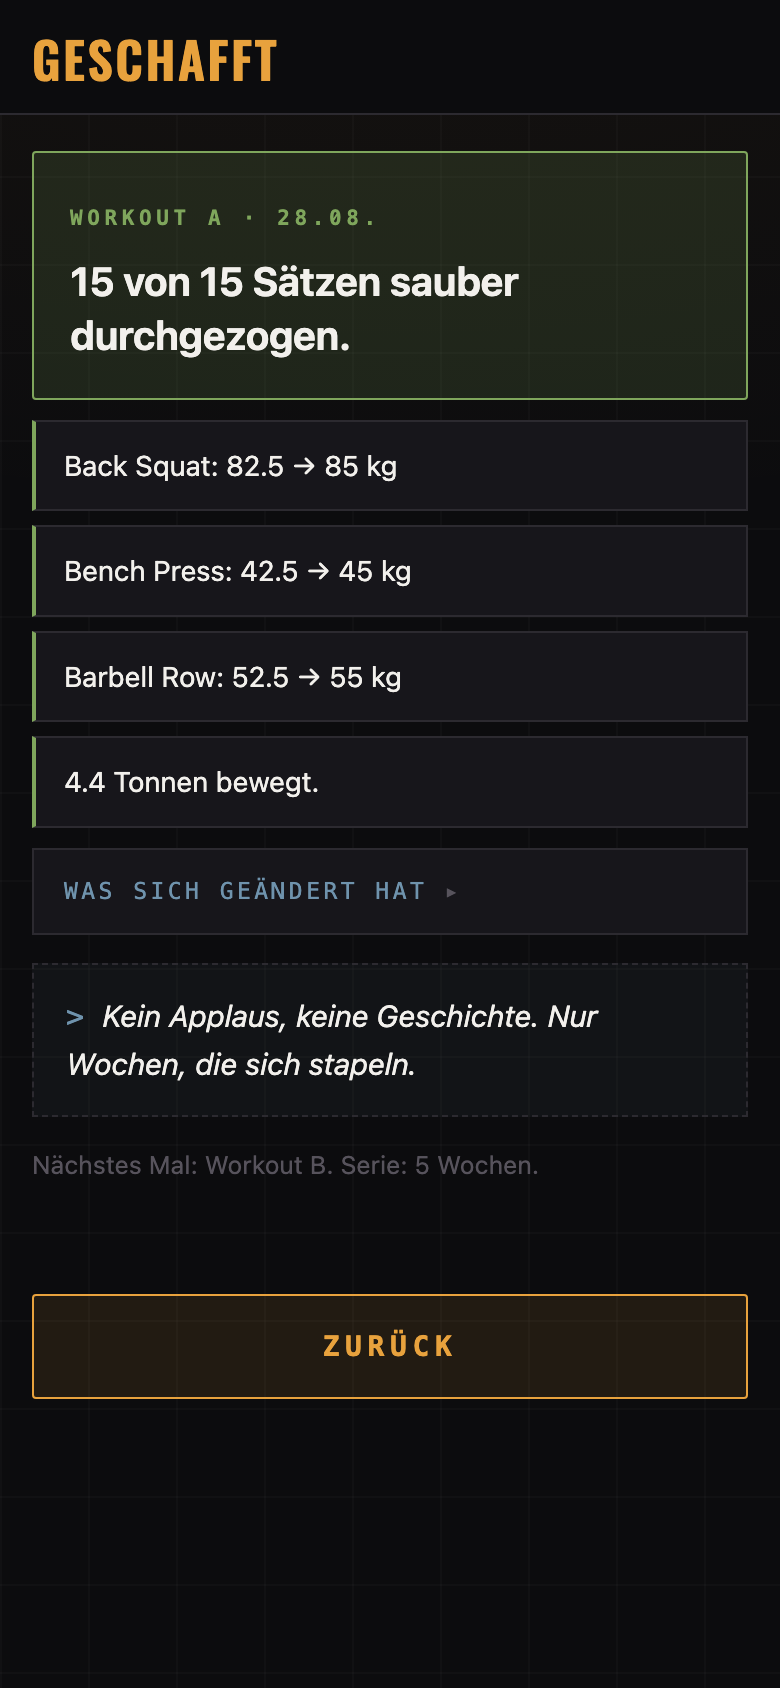
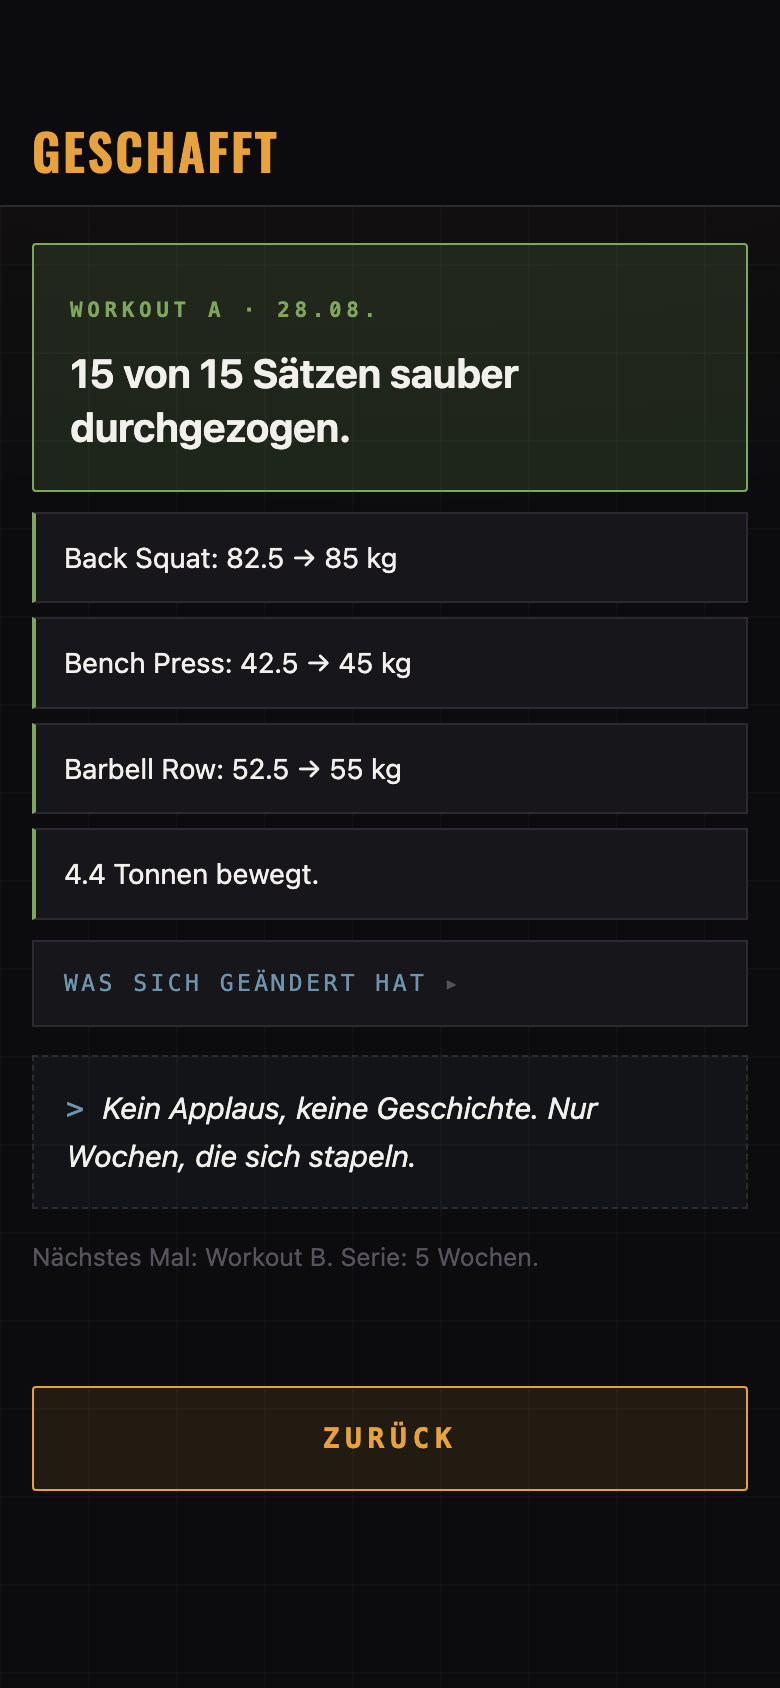
README: Flair und Featureliste zurueck, dazu ein Mac-Screenshot
Die radikale Kuerzung war zu trocken. Zurueck: die drei gruppierten
Funktionstabellen (Kraft / Rad und Kondition / App), ein Meilenstein-Zitat
fuer Persoenlichkeit, ein kompakter Text-Datenfluss statt Mermaid, und
zwei der Kernentscheidungen (state.json als Projektion, Mindestens vs.
Maximum) in Kurzform.

Neu: ein echter Desktop-Screenshot der Tour-Ansicht. shot.html hatte den
Rahmen fest auf Handygroesse gebaut (390x844) — ueber breite/hoehe-Parameter
jetzt auch als breite Fassung aufnehmbar. Die Formkurve im Screenshot
brauchte dafuer eine formVerlauf-Zeitreihe in den Testdaten, die vorher
fehlte (nur die aktuelle Ansage war geseedet, keine Kurve).

diff --git a/tools/shot.html b/tools/shot.html
@@ -3,7 +3,7 @@
 <title>laedt</title>
 <style>
   html,body{margin:0;padding:0;background:#000;overflow:hidden}
-  iframe{display:block;width:390px;height:844px;border:0}
+  iframe{display:block;border:0}
 </style>
 <body>
 <script>
@@ -12,11 +12,15 @@
    Chrome im Kopflos-Modus echte Bildschirme statt Mockups aufnimmt.
    Nur ein Werkzeug — die App selbst kennt diese Datei nicht.
 
-   Aufruf:  tools/shot.html?szene=home&thema=dunkel                        */
+   Aufruf:  tools/shot.html?szene=home&thema=dunkel
+            tools/shot.html?szene=verlauf&thema=dunkel&breite=1440&hoehe=1000 */
 
 const p = new URLSearchParams(location.search);
 const szene = p.get('szene') || 'home';
 const thema = p.get('thema') || 'dunkel';
+const breite = Number(p.get('breite')) || 390;
+const hoehe = Number(p.get('hoehe')) || 844;
+document.querySelector('style').textContent += `iframe{width:${breite}px;height:${hoehe}px}`;
 
 const config = {
   version: 1, bar: 20, rounding: 2.5, motto: 'Lift Heavy Shit',
@@ -90,10 +94,20 @@ const state = {
   history: logs.filter(l => (l.type||'strength')==='strength').map(l => ({ date:l.date, workout:l.workout, type:'strength' }))
 };
 
+// Fitness/Ermuedung als Zeitreihe fuer den Verlauf-Chart — sonst zeigt die
+// Tour dort einen Leerzustand, weil das einzelne "form"-Objekt oben nur die
+// aktuelle Ansage speist, keine Kurve.
+const formVerlauf = Array.from({ length: 30 }, (_, i) => {
+  const t = i / 29;
+  const ctl = Math.round((38 + t * 14) * 10) / 10;
+  const atl = Math.round((34 + t * 13 + Math.sin(i * 0.9) * 6) * 10) / 10;
+  return { date: tage(29 - i), ctl, atl, form: Math.round((ctl - atl) * 10) / 10 };
+});
+
 localStorage.clear();
 localStorage.setItem('setlist.token', 'demo');
 localStorage.setItem('setlist.cache', JSON.stringify({
-  config, state, fahrten,
+  config, state, fahrten, formVerlauf,
   form: { form: 5, stufe: 'frisch', fitness: 52, ermuedung: 47,
           text: 'Ausgeruht. Wenn ein Tag für einen Versuch am oberen Ende taugt, dann dieser.' },
   eftp: 243

diff --git a/README.md b/README.md
@@ -6,6 +6,7 @@
   <a href="https://cyphomat.github.io/setlist/"><img alt="App öffnen" src="https://img.shields.io/badge/App-öffnen-e8a23d?style=for-the-badge&labelColor=17161b"></a>
   <img alt="Tests" src="https://img.shields.io/badge/Tests-375%20grün-7fa65c?style=for-the-badge&labelColor=17161b">
   <img alt="Build" src="https://img.shields.io/badge/Build-keiner-6f93ad?style=for-the-badge&labelColor=17161b">
+  <img alt="Abhängigkeiten" src="https://img.shields.io/badge/Abhängigkeiten-0-a7a3ab?style=for-the-badge&labelColor=17161b">
 </p>
 
 <p align="center">
@@ -24,26 +25,42 @@
 <td width="33%"><img src="assets/screens/geschafft-dunkel.png" alt="Nach der Einheit"></td>
 </tr>
 <tr>
-<td align="center"><sub>Die Ansage</sub></td>
-<td align="center"><sub>Im Studio</sub></td>
-<td align="center"><sub>Danach</sub></td>
+<td align="center"><b>Die Ansage</b><br><sub>Ton aus Pause, Form und Rad</sub></td>
+<td align="center"><b>Im Studio</b><br><sub>Scheiben, Kadenz, Sätze über dem Ziel</sub></td>
+<td align="center"><b>Danach</b><br><sub>Erst der Erfolg, dann der Bericht</sub></td>
 </tr>
 </table>
 
-<sub>Echte Bildschirme mit Beispieldaten, aufgenommen über <code>tools/shot.html</code>.</sub>
+**Auf dem Mac wird daraus eine Übersicht** — Kalender, Wochenlast, Bestwerte und Verlaufskurven nebeneinander statt untereinander:
+
+<img src="assets/screens/tour-desktop.png" alt="Tour auf dem Mac, breite Ansicht">
+
+<sub>Echte Bildschirme mit Beispieldaten, aufgenommen über <code>tools/shot.html</code>. Keine Mockups.</sub>
 
 ---
 
-## Was sie tut
+## Was sie dir sagt
 
-Jeden Tag eine Ansage, aus Daten statt aus dem Bauch: Pause, offene Fehlversuche, Form vom Rad, Abstand zu den alten Bestwerten.
+Der Unterschied zu einem Logbuch: sie hat eine Meinung zum heutigen Tag — aus Daten, nicht aus dem Bauch.
 
-- **Kraft** läuft nach 5×5: fünf Sätze schaffen → Gewicht steigt, dreimal gerissen → Deload auf 90 %. Arbeitsgewichte werden nie von Hand gesetzt, nur über einen protokollierten Log.
-- **Rad** kommt automatisch — Zwift → Strava → intervals.icu. Setlist zeigt es nur als Hinweis und schreibt jede Krafteinheit dorthin zurück, damit Fitness und Ermüdung in einer Kurve liegen.
-- **Interferenz-Warnung**, wenn eine harte Fahrt weniger als vier Stunden her ist — die letzten Sätze werden zäh, das Maximalkraftniveau nicht.
-- **Jam**: ein Zufalls-Workout, wenn mal keine Lust auf den Plan besteht. Lasten aus dem aktuellen Stand, Skalierung für alles, was du (noch) nicht kannst.
-- **Meilensteine und Minierfolge**: „Gestern vor 5 Jahren 140 kg" neben „heute stehst du bei 65". Nach jeder Einheit steht zuerst das Geschaffte, nicht der Bericht.
-- **Die Stimme** mischt deine eigenen Zeilen aus `stimme.json` mit den mitgelieferten, etwa halbe halbe.
+- **Die Ansage** liest Trainingspause, offene Fehlversuche, laufende Serie und Form vom Rad und entscheidet zwischen `TECHNIK`, `SOLIDE`, `HART` und `SCHWER`.
+- **Interferenz-Warnung**, wenn eine harte Fahrt weniger als vier Stunden her ist — die letzten Sätze werden zäh, das Maximalkraftniveau bleibt unberührt.
+- **Meilensteine** kennen die alten Bestleistungen samt Datum:
+
+  > **Aus deiner Geschichte** — Gestern vor 5 Jahren: 140 kg Back Squat. Heute stehst du bei 65 kg — nicht weil du weniger kannst, sondern weil du wieder anfängst.
+
+- **Minierfolge** stehen nach jeder Einheit ganz oben. Nicht der Bericht, sondern das Geschaffte.
+- **Die Stimme** mischt eigene Zeilen aus `stimme.json` mit 52 mitgelieferten, etwa halbe halbe.
+
+## Wie es zusammenhängt
+
+```
+Zwift ──▶ Strava ──▶ intervals.icu ◀──▶ Setlist ◀──▶ setlist-data (privat)
+                            │                              │
+                       Fahrten, Form                  Kraft-Progression
+```
+
+Setlist besitzt die **Kraft**-Progression — zwei Systeme, die dasselbe Arbeitsgewicht berechnen, laufen unweigerlich auseinander. Das **Rad** läuft andersherum: es kommt automatisch über Zwift → Strava → intervals.icu, Setlist zeigt es nur als Hinweis und schreibt im Gegenzug jede Krafteinheit zurück, damit Fitness und Ermüdung in einer Kurve liegen statt in zwei getrennten Welten.
 
 ## Zweimal und zweimal
 
@@ -60,13 +77,47 @@ Back Squat ist in beiden Workouts dabei und steigt darum doppelt so schnell.
 
 ## Funktionen
 
-**Kraft** — Plattenrechner, Aufwärmsätze aus dem Arbeitsgewicht, Gewicht im Satz nachjustierbar, Pausenuhr mit Verlängerung nach Fehlversuch, Bestwerte getrennt in `Maximum` (nur Max-Out) und `Mindestens` (Arbeitssätze, systematisch zu niedrig).
+### Kraft
 
-**Rad und Kondition** — Wochenlast Kraft+Rad gestapelt, Fitness gegen Ermüdung, Trainingskalender über 26 Wochen, Wattziele aus der eFTP statt Prozentangaben.
+| | |
+|---|---|
+| **5×5-Automat** | Steigerung, Fehlerzähler, Deload auf 90 % nach drei Fehlversuchen. |
+| **Plattenrechner** | Scheiben pro Seite. Nicht exakt ladbare Gewichte werden benannt statt gerundet. |
+| **Soundcheck** | Aufwärmsätze aus dem Arbeitsgewicht: leere Stange, dann 55 / 70 / 85 %. |
+| **Gewicht im Satz** | Anpassbar während der Einheit — das Log bildet ab, was wirklich passiert ist. |
+| **Pausenuhr** | 90 s, nach Fehlversuch 180 s, im Lauf um ±30 s verstellbar. |
+| **Bestwerte** | `Maximum` (nur aus Max-Out) gegen `Mindestens` (aus Arbeitssätzen, systematisch zu niedrig). |
+| **Max-Out** | Krafttest mit e1RM. Dreht den A/B-Wechsel nicht. |
+| **Wissen an der Stange** | Aufklappbar: Begründung, Cue, typischer Fehler, Brücke zum olympischen Heben. |
 
-**App** — Offline-Puffer, aktualisiert sich beim Start selbst, hell/dunkel, Handy und Mac in einer Ansicht (ab 900 px zwei Spalten).
+### Rad und Kondition
 
-Details und Begründungen stehen als Kommentare direkt im Code, dort wo sie hingehören.
+| | |
+|---|---|
+| **Radfahrten** | Fahrten, Stunden, Kilometer, Wochenlast über zwölf Wochen — aus intervals.icu. |
+| **Trainingskalender** | 26 Wochen als Raster: Kraft bernstein, Jam grün, Rad stahlblau. |
+| **Wochenlast gestapelt** | Kraft und Rad in einem Balken — die eine Kurve, wegen der beides zusammengehört. |
+| **Fitness gegen Ermüdung** | Zwei Linien aus intervals.icu — die Fläche dazwischen *ist* die Form. |
+| **Wattziele** | Aus der eFTP statt Prozentangaben. |
+| **Jam** | Fünf Formate, 19 Übungen, Lasten aus dem aktuellen Stand. Nie zwei Langhantelteile. |
+| **Skalierung** | Jede Übung nennt Alternativen. „Kann ich nicht" nimmt sie dauerhaft raus. |
+
+### App
+
+| | |
+|---|---|
+| **Offline** | Einheiten werden gepuffert. Tour und Radansicht zeigen den letzten Stand. |
+| **Selbstaktualisierend** | Prüft die Version beim Start und lädt sich genau einmal neu. |
+| **Hell und dunkel** | Umschalter System / Hell / Dunkel. Zwei echte Fassungen, keine Invertierung. |
+| **Handy und Mac** | Ab 900 px zwei Spalten, in der Tour breitere Raster — dieselbe Reihenfolge, kein Umbau. |
+
+---
+
+## Zwei Entscheidungen, die tragen
+
+**`state.json` ist abgeleitet, nicht gepflegt.** Eine Projektion aus `config.json` und allen Dateien in `einheiten/`. Ein vertippter Eintrag wird nie zum Problem: Datei korrigieren, „state.json neu berechnen", fertig. Arbeitsgewichte werden nie direkt gesetzt — dafür gibt es den Log-Typ `anpassung`.
+
+**„Mindestens" ist nicht „Maximum".** e1RM-Formeln setzen Nähe zum Versagen voraus; ein 5×5-Arbeitssatz ist submaximal, die Formel unterschätzt dort systematisch. Deshalb mischt die Verlaufskurve die Quellen nicht: gestrichelte Linie für Untergrenzen, Max-Outs als eigene Punkte.
 
 ---
 
@@ -83,8 +134,6 @@ Details und Begründungen stehen als Kommentare direkt im Code, dort wo sie hing
 | `js/intervals.js` | Liest Fahrten und Form; schreibt Krafteinheiten zurück. |
 | `js/app.js` | Oberfläche und Ablauf. |
 | `sw.js` | Cacht die App-Hülle. Trainingsdaten bewusst **nicht**. |
-
-`state.json` steht nirgends im Repo, weil es nirgends stehen muss: eine reine Projektion aus `config.json` und allen Dateien in `einheiten/`. „state.json neu berechnen" stellt sie jederzeit wieder her.
 
 ---
 
